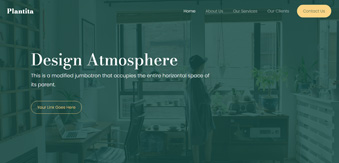
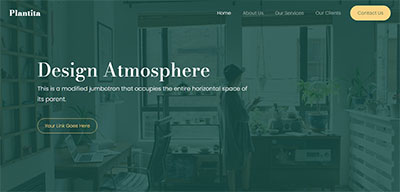
Updates

diff --git a/build/css/style.min.css b/build/css/style.min.css
@@ -1,2 +1,2 @@
-@import url("https://fonts.googleapis.com/css2?family=Quicksand:wght@400;500;600;700&display=swap");@import url("https://fonts.googleapis.com/css2?family=Nunito:wght@700;800;900&display=swap");.green-sea{background-color:#19be9b}.nephritis{background-color:#2dc873}.belize-hole{background-color:#3296dc}.wisteria{background-color:#9b5ab4}.orange{background-color:#f0c30f}.pumpkin{background-color:#e67d23}.pomegranate{background-color:#e64b3c}.btn.btn-md.btn-outline-light,.btn.btn-xl.btn-outline-light{border-width:2px;border-color:#fff;color:#fff}.btn.btn-md.btn-outline-light:hover,.btn.btn-xl.btn-outline-light:hover{color:#23c985;background-color:#fff}.btn.btn-md.btn-outline-light:focus,.btn.btn-xl.btn-outline-light:focus{-webkit-box-shadow:0 0 0 0.2rem rgba(255,255,255,0.25) !important;box-shadow:0 0 0 0.2rem rgba(255,255,255,0.25) !important}.btn.btn-md.btn-outline-light:not(:disabled):active,.btn.btn-xl.btn-outline-light:not(:disabled):active{border-color:#23c985}.btn.btn-md.btn-outline-dark,.btn.btn-xl.btn-outline-dark{border-width:2px;border-color:#23c985;color:#23c985}.btn.btn-md.btn-outline-dark:hover,.btn.btn-xl.btn-outline-dark:hover{color:#fff;background-color:#23c985}.btn.btn-md.btn-outline-dark:focus,.btn.btn-xl.btn-outline-dark:focus{-webkit-box-shadow:0 0 0 0.2rem rgba(35,201,133,0.25) !important;box-shadow:0 0 0 0.2rem rgba(35,201,133,0.25) !important}.btn.btn-md.btn-outline-dark:not(:disabled):active,.btn.btn-xl.btn-outline-dark:not(:disabled):active{border-color:#23c985}.btn{border-radius:3.125rem}.btn.btn-md{padding:0.5rem 1.55rem;font-size:1rem}.btn.btn-xl{padding:1rem 1.75rem;font-size:1.25rem}.scroll-top{width:50px;height:50px;position:fixed;bottom:25px;right:20px;display:none;opacity:0.75}.close{font-size:3rem;font-weight:400;line-height:0.4;opacity:0.2;-webkit-transition:opacity 0.4s ease-in-out;transition:opacity 0.4s ease-in-out}.close:focus{outline:none}@-webkit-keyframes upDown{0%{-webkit-transform:translateY(10px);transform:translateY(10px)}100%{-webkit-transform:translateY(-10px);transform:translateY(-10px)}}@keyframes upDown{0%{-webkit-transform:translateY(10px);transform:translateY(10px)}100%{-webkit-transform:translateY(-10px);transform:translateY(-10px)}}@-webkit-keyframes fadeIt{0%{width:0;background-color:#FFFFFF}100%{width:100%;background-color:#23C985}}@keyframes fadeIt{0%{width:0;background-color:#FFFFFF}100%{width:100%;background-color:#23C985}}.up-down{animation:upDown 2s ease-in-out infinite alternate-reverse both}body{font-family:'Quicksand', sans-serif}h1,h2,h3,h4,h5,h6{font-family:'Nunito', sans-serif;font-weight:900}p{font-size:1.125rem}.scroll-bar::-webkit-scrollbar{overflow:visible;width:7px;height:7px}.scroll-bar::-webkit-scrollbar-button{width:0;height:0}.scroll-bar::-webkit-scrollbar-thumb{background-color:transparent;background-color:rgba(0,0,0,0.2);filter:progid:DXImageTransform.Microsoft.gradient(startColorstr="#3C3C3C",endColorstr="#3C3C3C");zoom:1;background-clip:padding-box;border:0 solid transparent;min-height:28px;padding:100px 0 0;-webkit-box-shadow:inset 1px 1px 0 rgba(0,0,0,0.1),inset 0 -1px 0 rgba(0,0,0,0.07);box-shadow:inset 1px 1px 0 rgba(0,0,0,0.1),inset 0 -1px 0 rgba(0,0,0,0.07)}.scroll-bar::-webkit-scrollbar-track{background-clip:padding-box;border:solid transparent;border-width:0 0 0 2px;border-radius:10px;background-color:#fff}.navbar{background-color:rgba(255,255,255,0);padding:0.9375rem 2.5rem;-webkit-transition:all 0.4s ease-in-out;transition:all 0.4s ease-in-out}.navbar .navbar-brand .brand-logo{width:50px;-webkit-transition:all 0.4s ease-in-out;transition:all 0.4s ease-in-out}.navbar .navbar-brand .brand-name{color:#fff;opacity:1;-webkit-transition:all 0.4s ease-in-out;transition:all 0.4s ease-in-out}.navbar .navbar-nav .nav-item .nav-link{letter-spacing:0.125rem;font-weight:400;color:#fff;-webkit-transition:font-weight 0.2s ease-in-out;transition:font-weight 0.2s ease-in-out;opacity:0.75}.navbar .navbar-nav .nav-item .nav-link.active:after{content:'';display:block;height:4px;margin:0 auto;background-color:#fff;position:relative;top:22px;border-radius:20px;-webkit-animation:fadeIt 0.4s ease-in-out forwards;animation:fadeIt 0.4s ease-in-out forwards}.navbar .navbar-nav .nav-item .nav-link:hover{opacity:1}.navbar .navbar-nav .nav-item:not(:last-child){margin-right:1rem}.navbar.navbar-shrink{font-size:0.85rem;padding:0.5rem 1rem;background-color:#fff;-webkit-box-shadow:0 6px 18px rgba(19,40,29,0.1);box-shadow:0 6px 18px rgba(19,40,29,0.1)}.navbar.navbar-shrink .navbar-brand img{width:42px}.navbar.navbar-shrink .navbar-brand .brand-name{color:#262e33;font-size:1rem;letter-spacing:0.1rem}.navbar.navbar-shrink .nav-item .nav-link{color:#262e33}.navbar.navbar-shrink .nav-item .nav-link.active{font-weight:700}.navbar .nav-icon{width:30px;height:20px;position:relative;-webkit-transform:rotate(0deg);transform:rotate(0deg);-webkit-transition:0.5s ease-in-out;transition:0.5s ease-in-out;cursor:pointer}.navbar .nav-icon span{display:block;position:absolute;height:2px;width:100%;background:#262e33;border-radius:100px;opacity:1;left:0;-webkit-transform:rotate(0deg);transform:rotate(0deg);-webkit-transition:0.25s ease-in-out;transition:0.25s ease-in-out}.navbar .nav-icon span:first-child{top:0;-webkit-transform-origin:left center;transform-origin:left center}.navbar .nav-icon span:nth-child(2){top:9px;-webkit-transform-origin:left center;transform-origin:left center}.navbar .nav-icon span:last-child{top:18px;-webkit-transform-origin:left center;transform-origin:left center}.navbar .nav-icon.open span:first-child{-webkit-transform:rotate(45deg);transform:rotate(45deg);top:-1px;left:0}.navbar .nav-icon.open span:nth-child(2){width:0%;opacity:0}.navbar .nav-icon.open span:last-child{-webkit-transform:rotate(-45deg);transform:rotate(-45deg);top:20px;left:0}.jumbotron{min-height:100vh;background-image:url("/src/img/bg-intro.svg");background-attachment:fixed}#portfolio .portfolio-item{position:relative;max-width:25rem;-webkit-transition:all 0.2s ease-in-out;transition:all 0.2s ease-in-out}#portfolio .portfolio-item .portfolio-item-caption{background:-webkit-gradient(linear, left top, left bottom, from(rgba(35,201,133,0.8)), to(#1cb48d));background:linear-gradient(rgba(35,201,133,0.8), #1cb48d);-webkit-transition:all 0.2s ease-in-out;transition:all 0.2s ease-in-out;opacity:0}#portfolio .portfolio-item .portfolio-item-caption .portfolio-item-caption-content{font-size:1.5rem}#portfolio .portfolio-item:hover{-webkit-transform:translateY(-0.5rem);transform:translateY(-0.5rem);-webkit-box-shadow:0 10px 30px 0 rgba(35,201,133,0.8);box-shadow:0 10px 30px 0 rgba(35,201,133,0.8)}#portfolio .portfolio-item:hover .portfolio-item-caption{opacity:1}#about{min-height:100vh;background-image:url("/src/img/bg-about.jpg");background-attachment:fixed;background-size:cover;-webkit-box-shadow:inset 0 0 0 2000px rgba(255,255,255,0.5);box-shadow:inset 0 0 0 2000px rgba(255,255,255,0.5)}#about .skills img{opacity:0.3;-webkit-transition:all 0.2s ease-in-out;transition:all 0.2s ease-in-out}#about .skills img:hover{-webkit-transform:translateY(0.4rem);transform:translateY(0.4rem);opacity:1}@media only screen and (max-width: 1199px){#about .skills img{width:80%;height:80%}}@media only screen and (max-width: 767px){#about .skills img{margin-bottom:2rem;width:100%;height:100%}}#contact form .floating-label-form-group{position:relative;border-bottom:1px solid #e9ecef}#contact form .floating-label-form-group input,#contact form .floating-label-form-group textarea{font-size:1.2rem;position:relative;z-index:1;padding-right:0;padding-left:0;resize:none;border:none;border-radius:0;background:0 0;-webkit-box-shadow:none !important;box-shadow:none !important}#contact form .floating-label-form-group label{font-size:.85rem;line-height:1.75em;position:relative;z-index:0;top:2em;display:block;margin:0;-webkit-transition:top .3s ease, opacity .3s ease;transition:top .3s ease, opacity .3s ease;opacity:0}#contact form .floating-label-form-group:not(:first-child){padding-left:14px;border-left:1px solid #e9ecef}#contact form .floating-label-form-group-with-value label{top:0;opacity:1}#contact form .floating-label-form-group-with-focus label{color:#23c985}#contact form .row:first-child .floating-label-form-group{border-top:1px solid #e9ecef}#portfolio,#about,#contact{padding:4rem 2rem}#portfolio h2,#about h2,#contact h2{display:none}@media (max-width: 61.998em){.navbar .nav-icon span{background:#fff}.navbar .navbar-collapse .navbar-nav{background-color:#fff;border-radius:1rem;-webkit-box-shadow:0 0 0 #000;box-shadow:0 0 0 #000}.navbar .navbar-collapse .navbar-nav.navbar-nav-spacing{padding:1.6rem 2rem;margin-top:1rem;-webkit-box-shadow:0 15px 30px rgba(0,0,0,0.2);box-shadow:0 15px 30px rgba(0,0,0,0.2);-webkit-transition:-webkit-box-shadow 1s ease-in-out;transition:-webkit-box-shadow 1s ease-in-out;transition:box-shadow 1s ease-in-out;transition:box-shadow 1s ease-in-out, -webkit-box-shadow 1s ease-in-out}.navbar .navbar-collapse .navbar-nav.navbar-nav-spacing-custom{padding:1rem}.navbar .navbar-collapse .navbar-nav .nav-item:not(:last-child){margin-right:0}.navbar .navbar-collapse .navbar-nav .nav-item .nav-link{color:initial}.navbar .navbar-collapse .navbar-nav .nav-item .nav-link.active::after{display:none}.jumbotron{padding:6rem 2rem 4rem}#portfolio h2,#about h2,#contact h2{display:block}}footer{background-image:url("/src/img/bg-intro.svg");background-attachment:fixed}
+@import url("https://fonts.googleapis.com/css2?family=Quicksand:wght@400;500;600;700&display=swap");@import url("https://fonts.googleapis.com/css2?family=Nunito:wght@700;800;900&display=swap");.green-sea{background-color:#19be9b}.nephritis{background-color:#2dc873}.belize-hole{background-color:#3296dc}.wisteria{background-color:#9b5ab4}.orange{background-color:#f0c30f}.pumpkin{background-color:#e67d23}.pomegranate{background-color:#e64b3c}.btn.btn-md.btn-outline-light,.btn.btn-xl.btn-outline-light{border-width:2px;border-color:#fff;color:#fff}.btn.btn-md.btn-outline-light:hover,.btn.btn-xl.btn-outline-light:hover{color:#23c985;background-color:#fff}.btn.btn-md.btn-outline-light:focus,.btn.btn-xl.btn-outline-light:focus{-webkit-box-shadow:0 0 0 0.2rem rgba(255,255,255,0.25) !important;box-shadow:0 0 0 0.2rem rgba(255,255,255,0.25) !important}.btn.btn-md.btn-outline-light:not(:disabled):active,.btn.btn-xl.btn-outline-light:not(:disabled):active{border-color:#23c985}.btn.btn-md.btn-outline-dark,.btn.btn-xl.btn-outline-dark{border-width:2px;border-color:#23c985;color:#23c985}.btn.btn-md.btn-outline-dark:hover,.btn.btn-xl.btn-outline-dark:hover{color:#fff;background-color:#23c985}.btn.btn-md.btn-outline-dark:focus,.btn.btn-xl.btn-outline-dark:focus{-webkit-box-shadow:0 0 0 0.2rem rgba(35,201,133,0.25) !important;box-shadow:0 0 0 0.2rem rgba(35,201,133,0.25) !important}.btn.btn-md.btn-outline-dark:not(:disabled):active,.btn.btn-xl.btn-outline-dark:not(:disabled):active{border-color:#23c985}.btn{border-radius:3.125rem}.btn.btn-md{padding:0.5rem 1.55rem;font-size:1rem}.btn.btn-xl{padding:1rem 1.75rem;font-size:1.25rem}.scroll-top{width:50px;height:50px;position:fixed;bottom:25px;right:20px;display:none;opacity:0.75}.close{font-size:3rem;font-weight:400;line-height:0.4;opacity:0.2;-webkit-transition:opacity 0.4s ease-in-out;transition:opacity 0.4s ease-in-out}.close:focus{outline:none}@-webkit-keyframes upDown{0%{-webkit-transform:translateY(10px);transform:translateY(10px)}100%{-webkit-transform:translateY(-10px);transform:translateY(-10px)}}@keyframes upDown{0%{-webkit-transform:translateY(10px);transform:translateY(10px)}100%{-webkit-transform:translateY(-10px);transform:translateY(-10px)}}@-webkit-keyframes fadeIt{0%{width:0;background-color:#FFFFFF}100%{width:100%;background-color:#23C985}}@keyframes fadeIt{0%{width:0;background-color:#FFFFFF}100%{width:100%;background-color:#23C985}}.up-down{animation:upDown 2s ease-in-out infinite alternate-reverse both}body{font-family:'Quicksand', sans-serif}h1,h2,h3,h4,h5,h6{font-family:'Nunito', sans-serif;font-weight:900}p{font-size:1.125rem}.scroll-bar::-webkit-scrollbar{overflow:visible;width:7px;height:7px}.scroll-bar::-webkit-scrollbar-button{width:0;height:0}.scroll-bar::-webkit-scrollbar-thumb{background-color:transparent;background-color:rgba(0,0,0,0.2);filter:progid:DXImageTransform.Microsoft.gradient(startColorstr="#3C3C3C",endColorstr="#3C3C3C");zoom:1;background-clip:padding-box;border:0 solid transparent;min-height:28px;padding:100px 0 0;-webkit-box-shadow:inset 1px 1px 0 rgba(0,0,0,0.1),inset 0 -1px 0 rgba(0,0,0,0.07);box-shadow:inset 1px 1px 0 rgba(0,0,0,0.1),inset 0 -1px 0 rgba(0,0,0,0.07)}.scroll-bar::-webkit-scrollbar-track{background-clip:padding-box;border:solid transparent;border-width:0 0 0 2px;border-radius:10px;background-color:#fff}.navbar{background-color:rgba(255,255,255,0);padding:0.9375rem 2.5rem;-webkit-transition:all 0.4s ease-in-out;transition:all 0.4s ease-in-out}.navbar .navbar-brand .brand-logo{width:50px;-webkit-transition:all 0.4s ease-in-out;transition:all 0.4s ease-in-out}.navbar .navbar-brand .brand-name{color:#fff;opacity:1;-webkit-transition:all 0.4s ease-in-out;transition:all 0.4s ease-in-out}.navbar .navbar-nav .nav-item .nav-link{letter-spacing:0.125rem;font-weight:400;color:#fff;-webkit-transition:font-weight 0.2s ease-in-out;transition:font-weight 0.2s ease-in-out;opacity:0.75}.navbar .navbar-nav .nav-item .nav-link.active:after{content:'';display:block;height:4px;margin:0 auto;background-color:#fff;position:relative;top:22px;border-radius:20px;-webkit-animation:fadeIt 0.4s ease-in-out forwards;animation:fadeIt 0.4s ease-in-out forwards}.navbar .navbar-nav .nav-item .nav-link:hover{opacity:1}.navbar .navbar-nav .nav-item:not(:last-child){margin-right:1rem}.navbar.navbar-shrink{font-size:0.85rem;padding:0.5rem 1rem;background-color:#fff;-webkit-box-shadow:0 6px 18px rgba(19,40,29,0.1);box-shadow:0 6px 18px rgba(19,40,29,0.1)}.navbar.navbar-shrink .navbar-brand img{width:42px}.navbar.navbar-shrink .navbar-brand .brand-name{color:#262e33;font-size:1rem;letter-spacing:0.1rem}.navbar.navbar-shrink .nav-item .nav-link{color:#262e33}.navbar.navbar-shrink .nav-item .nav-link.active{font-weight:700}.navbar .nav-icon{width:30px;height:20px;position:relative;-webkit-transform:rotate(0deg);transform:rotate(0deg);-webkit-transition:0.5s ease-in-out;transition:0.5s ease-in-out;cursor:pointer}.navbar .nav-icon span{display:block;position:absolute;height:2px;width:100%;background:#262e33;border-radius:100px;opacity:1;left:0;-webkit-transform:rotate(0deg);transform:rotate(0deg);-webkit-transition:0.25s ease-in-out;transition:0.25s ease-in-out}.navbar .nav-icon span:first-child{top:0;-webkit-transform-origin:left center;transform-origin:left center}.navbar .nav-icon span:nth-child(2){top:9px;-webkit-transform-origin:left center;transform-origin:left center}.navbar .nav-icon span:last-child{top:18px;-webkit-transform-origin:left center;transform-origin:left center}.navbar .nav-icon.open span:first-child{-webkit-transform:rotate(45deg);transform:rotate(45deg);top:-1px;left:0}.navbar .nav-icon.open span:nth-child(2){width:0%;opacity:0}.navbar .nav-icon.open span:last-child{-webkit-transform:rotate(-45deg);transform:rotate(-45deg);top:20px;left:0}.jumbotron{min-height:100vh;background-image:url("/src/img/bg-intro.svg");background-attachment:fixed}#portfolio .portfolio-item{position:relative;max-width:25rem;-webkit-transition:all 0.2s ease-in-out;transition:all 0.2s ease-in-out}#portfolio .portfolio-item .portfolio-item-caption{background:-webkit-gradient(linear, left top, left bottom, from(rgba(35,201,133,0.8)), to(#1cb48d));background:linear-gradient(rgba(35,201,133,0.8), #1cb48d);-webkit-transition:all 0.2s ease-in-out;transition:all 0.2s ease-in-out;opacity:0}#portfolio .portfolio-item .portfolio-item-caption .portfolio-item-caption-content{font-size:1.5rem}#portfolio .portfolio-item:hover{-webkit-transform:translateY(-0.5rem);transform:translateY(-0.5rem);-webkit-box-shadow:0 10px 30px 0 rgba(35,201,133,0.8);box-shadow:0 10px 30px 0 rgba(35,201,133,0.8)}#portfolio .portfolio-item:hover .portfolio-item-caption{opacity:1}#about{min-height:100vh;background-image:url("/src/img/bg-about.jpg");background-attachment:fixed;background-size:cover;-webkit-box-shadow:inset 0 0 0 2000px rgba(255,255,255,0.5);box-shadow:inset 0 0 0 2000px rgba(255,255,255,0.5)}#about .skills img{opacity:0.3;-webkit-transition:all 0.2s ease-in-out;transition:all 0.2s ease-in-out}#about .skills img:hover{-webkit-transform:translateY(0.4rem);transform:translateY(0.4rem);opacity:1}@media only screen and (max-width: 1199px){#about .skills img{width:80%;height:80%}}@media only screen and (max-width: 767px){#about .skills img{margin-bottom:2rem;width:100%;height:100%}}#contact form .floating-label-form-group{position:relative;border-bottom:1px solid #e9ecef}#contact form .floating-label-form-group input,#contact form .floating-label-form-group textarea{font-size:1.2rem;position:relative;z-index:1;padding-right:0;padding-left:0;resize:none;border:none;border-radius:0;background:0 0;-webkit-box-shadow:none !important;box-shadow:none !important}#contact form .floating-label-form-group label{font-size:.85rem;line-height:1.75em;position:relative;z-index:0;top:2em;display:block;margin:0;-webkit-transition:top .3s ease, opacity .3s ease;transition:top .3s ease, opacity .3s ease;opacity:0}#contact form .floating-label-form-group:not(:first-child){padding-left:14px;border-left:1px solid #e9ecef}#contact form .floating-label-form-group-with-value label{top:0;opacity:1}#contact form .floating-label-form-group-with-focus label{color:#23c985}#contact form .row:first-child .floating-label-form-group{border-top:1px solid #e9ecef}#portfolio,#about,#contact{padding:4rem 2rem}#portfolio h2,#about h2,#contact h2{display:none}@media (max-width: 61.998em){.navbar .nav-icon span{background:#fff}.navbar .navbar-collapse .navbar-nav{background-color:#fff;border-radius:1rem;-webkit-box-shadow:0 0 0 #000;box-shadow:0 0 0 #000}.navbar .navbar-collapse .navbar-nav.navbar-nav-spacing{padding:1.6rem 2rem;margin-top:1rem;-webkit-box-shadow:0 15px 30px rgba(0,0,0,0.2);box-shadow:0 15px 30px rgba(0,0,0,0.2);-webkit-transition:-webkit-box-shadow 1s ease-in-out;transition:-webkit-box-shadow 1s ease-in-out;transition:box-shadow 1s ease-in-out;transition:box-shadow 1s ease-in-out, -webkit-box-shadow 1s ease-in-out}.navbar .navbar-collapse .navbar-nav.navbar-nav-spacing-custom{padding:1rem}.navbar .navbar-collapse .navbar-nav .nav-item:not(:last-child){margin-right:0}.navbar .navbar-collapse .navbar-nav .nav-item .nav-link{color:initial}.navbar .navbar-collapse .navbar-nav .nav-item .nav-link.active::after{display:none}.jumbotron{padding:6rem 2rem 4rem}.jumbotron .display-4{font-size:2.4rem}#portfolio h2,#about h2,#contact h2{display:block}}footer{background-image:url("/src/img/bg-intro.svg");background-attachment:fixed}
 /*# sourceMappingURL=style.min.css.map */

diff --git a/src/scss/_global.scss b/src/scss/_global.scss
@@ -316,6 +316,9 @@ p {
     }
     .jumbotron {
         padding: 6rem 2rem 4rem;
+        .display-4 {
+            font-size: 2.4rem;
+        }
     }
     #portfolio, #about, #contact {
         h2 {
